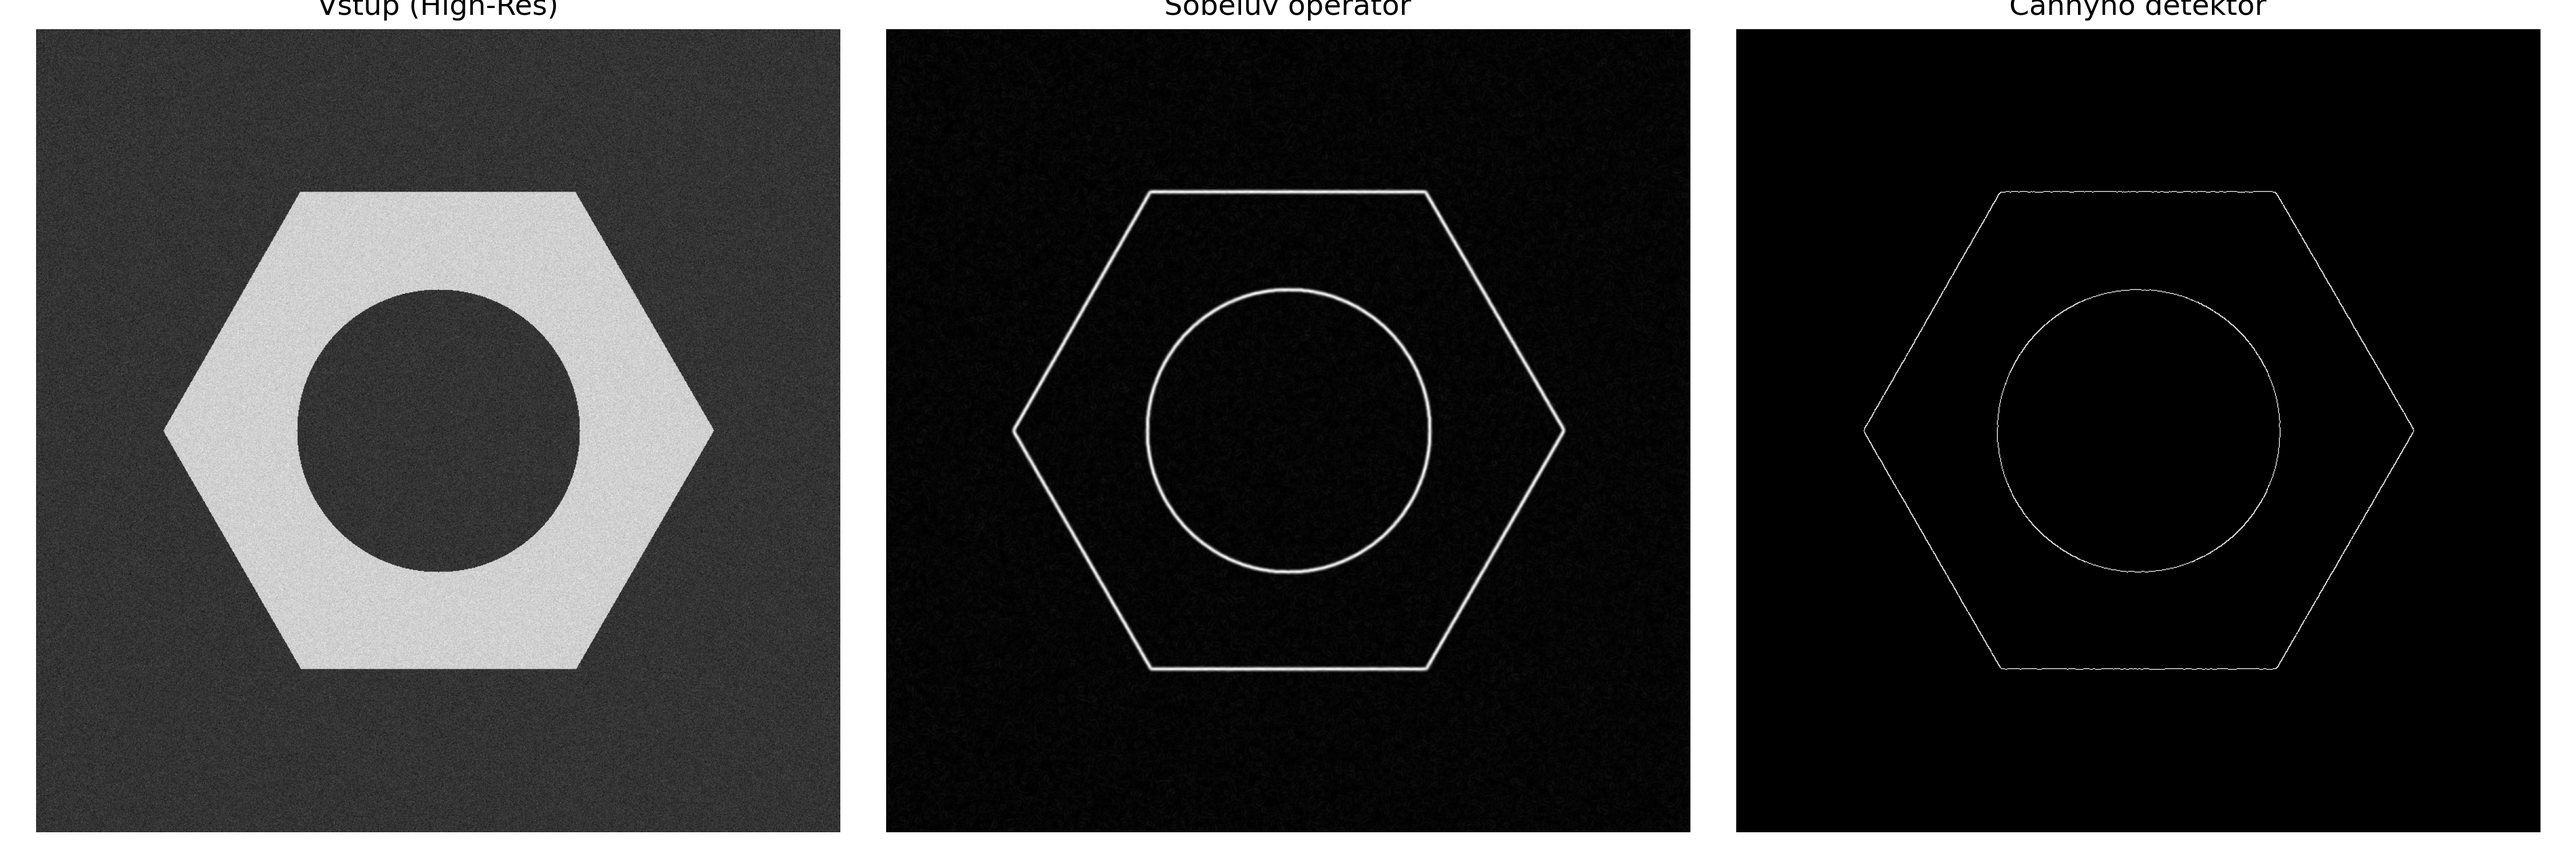
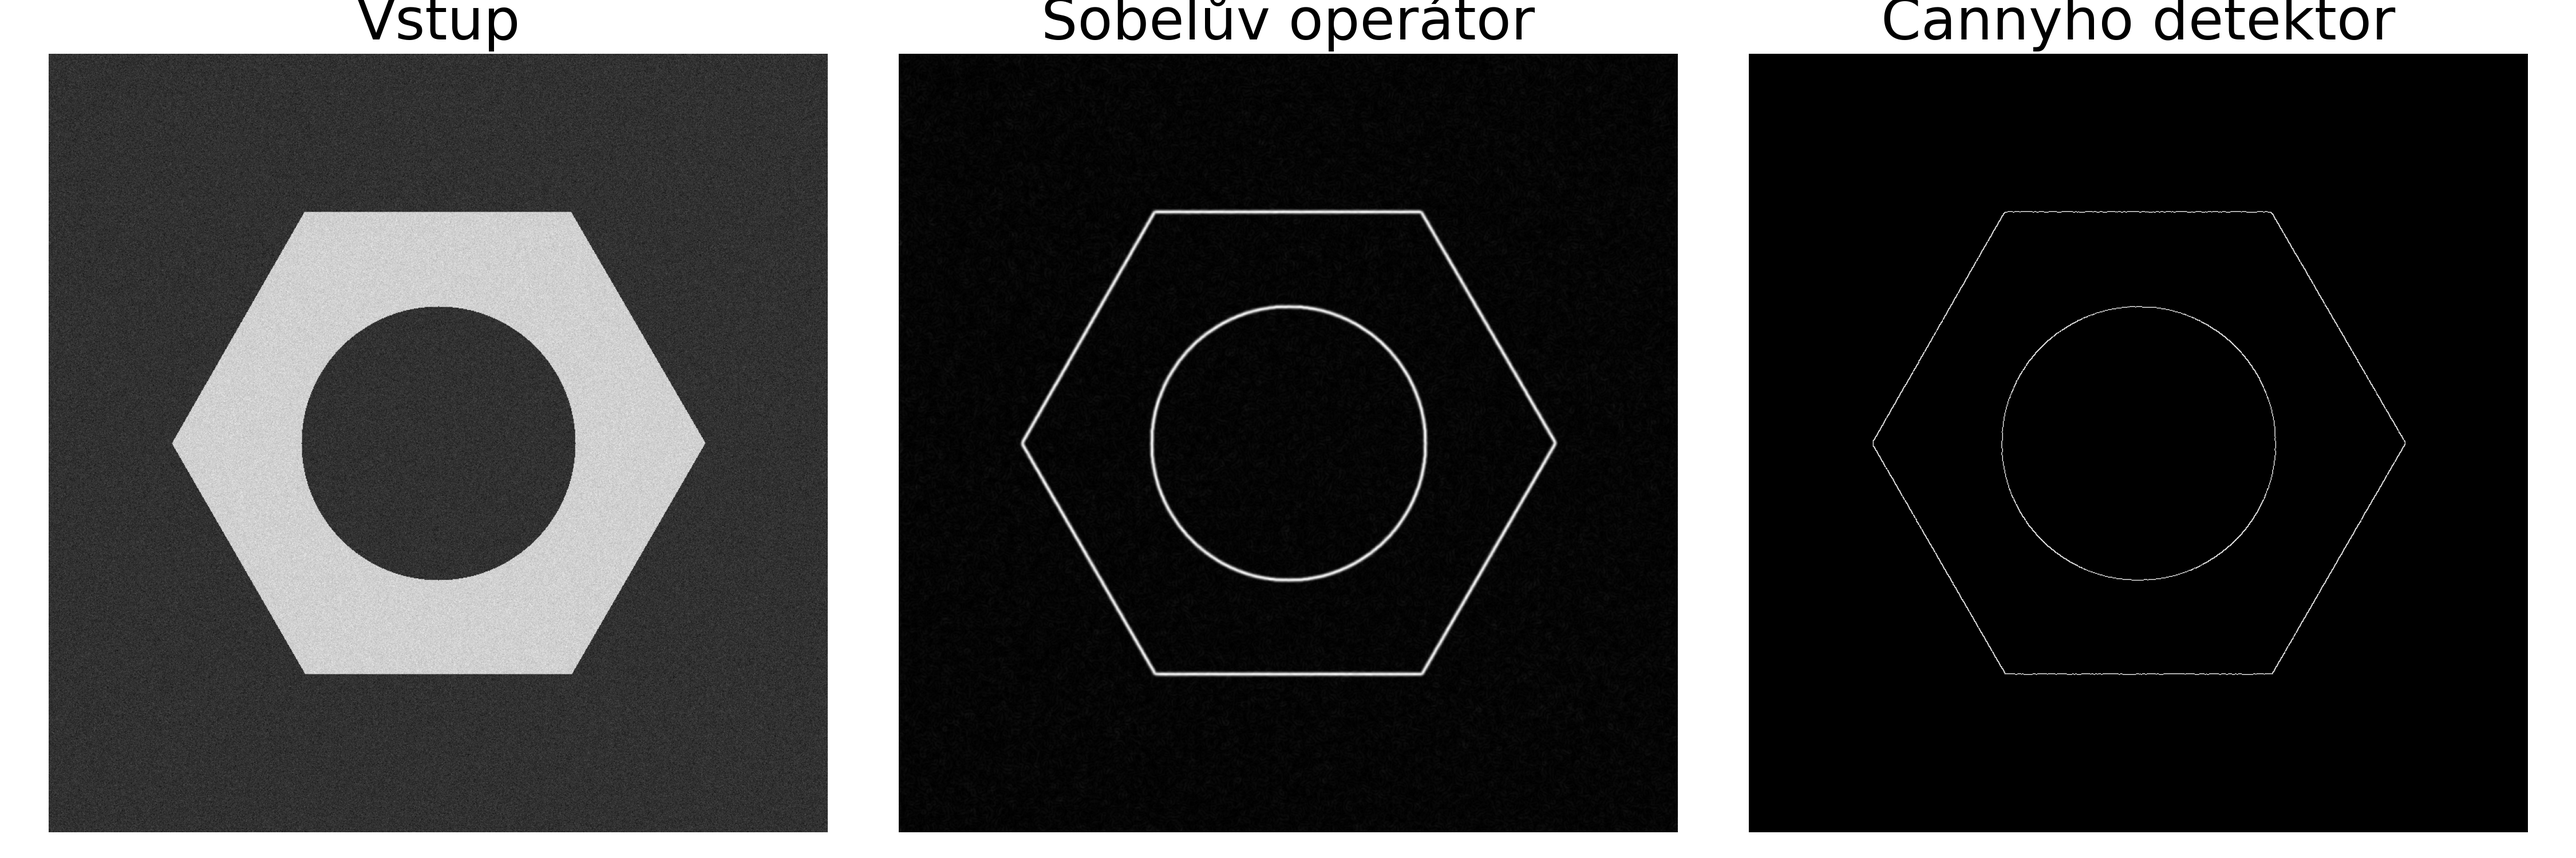
Initial Commit

diff --git a/ObrazkyDoReserse/Eroze a dilatace.py b/ObrazkyDoReserse/Eroze a dilatace.py
@@ -1,0 +1,81 @@
+import cv2
+import numpy as np
+import matplotlib.pyplot as plt
+import random
+
+# 1. Nastavení plátna
+height, width = 600, 1200
+img = np.zeros((height, width), dtype=np.uint8)
+
+# 2. Vykreslení písmene "J" - použijeme zaoblený font a tloušťku tak akorát
+font = cv2.FONT_HERSHEY_SIMPLEX
+# Tloušťka 45 je ideální kompromis
+cv2.putText(img, 'J', (480, 500), font, 15, 255, 45)
+
+
+# 3. Funkce pro generování "chytrého" šumu
+def add_noise(image):
+    noisy_img = image.copy()
+    h, w = image.shape
+
+    # A) JEMNÝ PRACH v pozadí (pro Erozi)
+    # Generujeme hodně malých teček (poloměr 2-4 px)
+    # Jsou malé, takže eroze je snadno vymaže.
+    for _ in range(150):
+        x = random.randint(0, w - 1)
+        y = random.randint(0, h - 1)
+        # Kreslíme jen do černého pozadí
+        if image[y, x] == 0:
+            cv2.circle(noisy_img, (x, y), random.randint(2, 4), 255, -1)
+
+    # B) PRASKLINY uvnitř objektu (pro Dilataci)
+    # Generujeme černé čáry/praskliny uvnitř bílého písmena
+    for _ in range(30):
+        x = random.randint(400, 800)  # Oblast písmena
+        y = random.randint(100, 500)
+        if image[y, x] == 255:
+            # Náhodná délka a úhel praskliny
+            pt1 = (x, y)
+            pt2 = (x + random.randint(-20, 20), y + random.randint(-20, 20))
+            cv2.line(noisy_img, pt1, pt2, 0, 6)  # Tloušťka praskliny 6px
+
+    return noisy_img
+
+
+img = add_noise(img)
+
+# 4. Morfologické operace s KULATÝM KERNELEM
+# To je ten trik! Místo čtverce použijeme elipsu (kruh).
+# Velikost 21x21 zajistí viditelný efekt, ale zachová tvar.
+kernel = cv2.getStructuringElement(cv2.MORPH_ELLIPSE, (21, 21))
+
+# Eroze: Vymaže malé tečky v pozadí, ztenčí písmeno
+erosion = cv2.erode(img, kernel, iterations=1)
+
+# Dilatace: Zacelí praskliny, písmeno se zakulatí a ztloustne
+dilation = cv2.dilate(img, kernel, iterations=1)
+
+# 5. Vykreslení
+plt.figure(figsize=(18, 6))
+
+# Panel 1: Originál
+plt.subplot(1, 3, 1)
+plt.title("Vstup", fontsize=24)
+plt.imshow(img, cmap='gray')
+plt.axis('off')
+
+# Panel 2: Eroze
+plt.subplot(1, 3, 2)
+plt.title("Eroze", fontsize=24)
+plt.imshow(erosion, cmap='gray')
+plt.axis('off')
+
+# Panel 3: Dilatace
+plt.subplot(1, 3, 3)
+plt.title("Dilatace", fontsize=24)
+plt.imshow(dilation, cmap='gray')
+plt.axis('off')
+
+plt.tight_layout()
+plt.savefig("Eroze_vs_Dilatace.png", dpi=300)
+plt.show()

diff --git a/ObrazkyDoReserse/Histogram a prahování.py b/ObrazkyDoReserse/Histogram a prahování.py
@@ -1,0 +1,39 @@
+import cv2
+import numpy as np
+import matplotlib.pyplot as plt
+
+# 1. Generování obrazu se dvěma úrovněmi šedi (bimodální)
+background = np.random.normal(50, 15, (300, 300))  # Tmavé pozadí
+object_ = np.random.normal(200, 15, (300, 300))    # Světlý objekt
+mask = np.zeros((300, 300))
+cv2.circle(mask, (150, 150), 100, 1, -1)
+
+# Složení obrazu
+img = np.where(mask == 1, object_, background).astype(np.uint8)
+
+# 2. Otsuova metoda prahování
+ret, thresh = cv2.threshold(img, 0, 255, cv2.THRESH_BINARY + cv2.THRESH_OTSU)
+
+# 3. Vykreslení
+fig, axs = plt.subplots(1, 3, figsize=(12, 4))
+
+# Původní obraz
+axs[0].imshow(img, cmap='gray')
+axs[0].set_title("Vstup", fontsize=24)
+axs[0].axis('off')
+
+# Histogram
+axs[1].hist(img.ravel(), 256)
+axs[1].axvline(ret, color='r', linestyle='dashed', linewidth=2)
+axs[1].set_title(f"Histogram a Otsu práh ({int(ret)})", fontsize=24)
+axs[1].set_xlabel("Intenzita pixelu")
+axs[1].set_ylabel("Počet pixelů")
+
+# Výsledek segmentace
+axs[2].imshow(thresh, cmap='gray')
+axs[2].set_title("Výsledek segmentace", fontsize=24)
+axs[2].axis('off')
+
+plt.tight_layout()
+plt.savefig("histogram_otsu.png", dpi=300)
+plt.show()

diff --git a/ObrazkyDoReserse/Sobel vs. Canny.py b/ObrazkyDoReserse/Sobel vs. Canny.py
@@ -42,17 +42,17 @@ canny = cv2.Canny(img_blurred, 100, 200)
 plt.figure(figsize=(15, 5))
 
 plt.subplot(1, 3, 1)
-plt.title("Vstup (High-Res)")
+plt.title("Vstup", fontsize=24)
 plt.imshow(img_noisy, cmap='gray')
 plt.axis('off')
 
 plt.subplot(1, 3, 2)
-plt.title("Sobelův operátor")
+plt.title("Sobelův operátor", fontsize=24)
 plt.imshow(sobel_combined, cmap='gray')
 plt.axis('off')
 
 plt.subplot(1, 3, 3)
-plt.title("Cannyho detektor")
+plt.title("Cannyho detektor", fontsize=24)
 plt.imshow(canny, cmap='gray')
 plt.axis('off')
 
